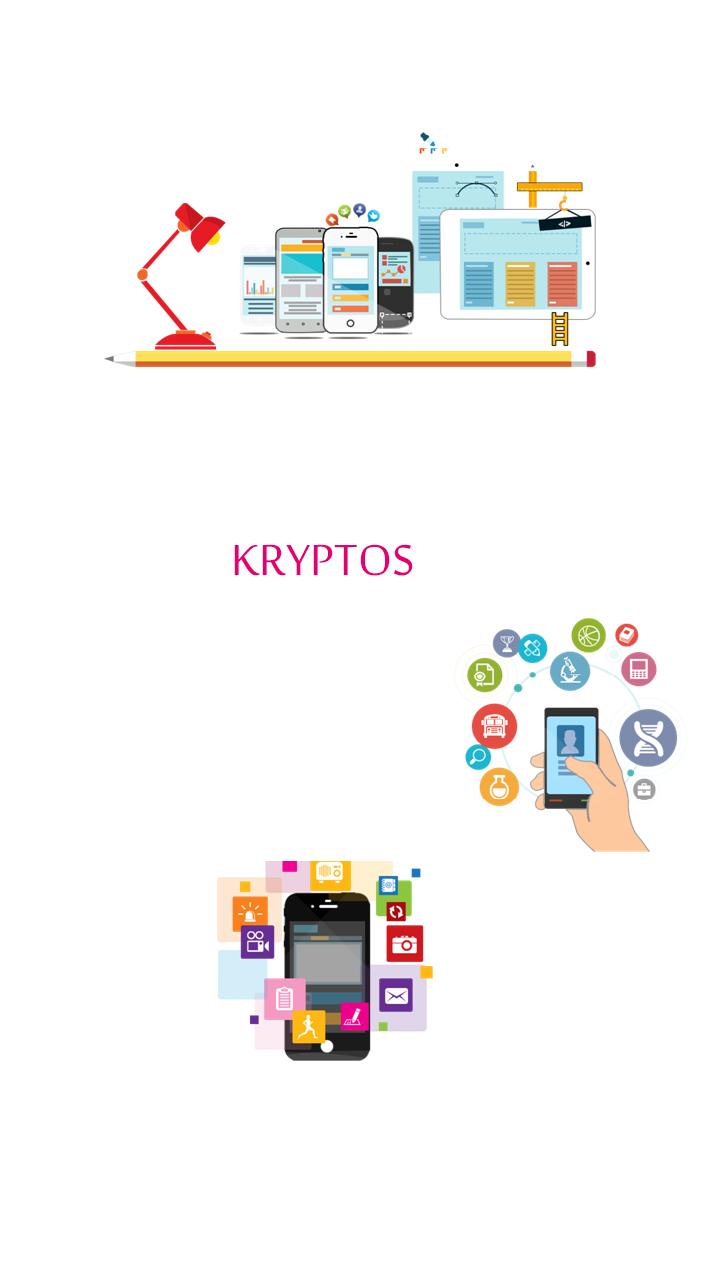
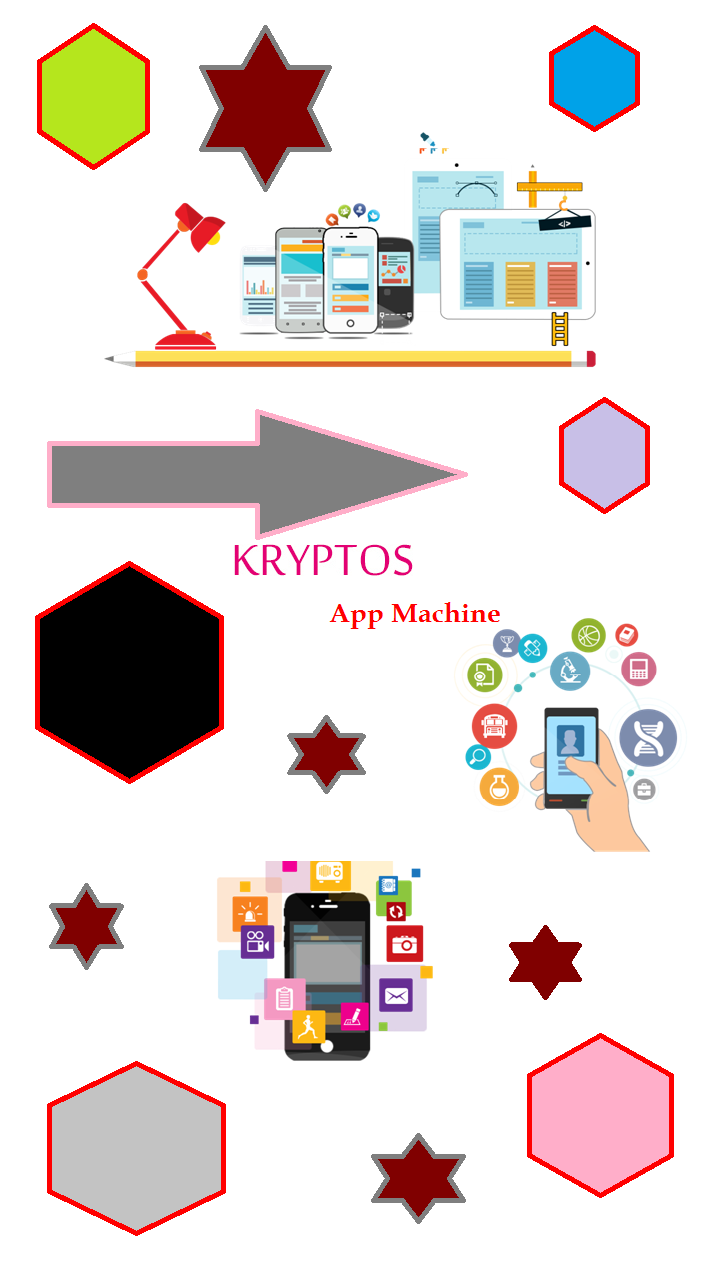
Bug fixes

diff --git a/www/js/controllers.js b/www/js/controllers.js
@@ -755,7 +755,7 @@ angular.module('myApp.controllers', []).
 			$rootScope.backgroundUrl = "./images/block.png";
 			$rootScope.brandingUrl = "./images/Banner-03.png";
 
-			$rootScope.appDisplayName = "App Maker";
+			$rootScope.appDisplayName = "KRYPTOS App Machine";
 			var url = "https://kryptos.kryptosmobile.com";
 			$scope.loadApps = function(token) {
 				var message = '<div style="margin: 2px; vertical-align: middle; display: inline-block"><i class="icon-cog icon-spin icon-4x"></i><h3 style="color:white;">Loading App..!!</h3></div>';
@@ -768,7 +768,6 @@ angular.module('myApp.controllers', []).
 						$.unblockUI();
 					}).error (function(edata, status) {
 						$.unblockUI();
-						alert ("Error in listMyApps : " + edata + " Status : " + status);
 						if(status == 403) {
                         	var username = $.jStorage.get('kusername');
                         	var password = $.jStorage.get('kpassword');
